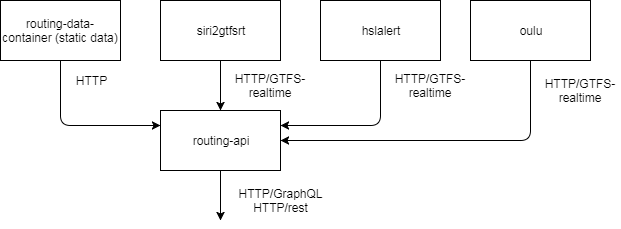
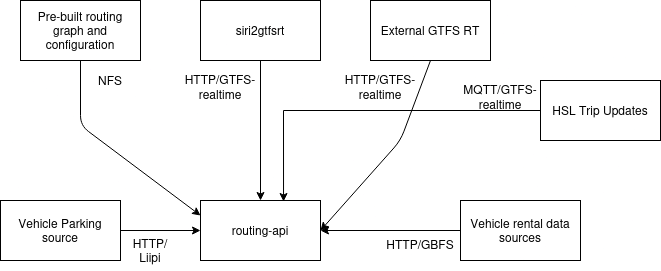
Update routing-api diagram and link to data building page from routing-api architecture

diff --git a/src/pages/en/developers/architecture/x-apis/1-routing-api/index.md b/src/pages/en/developers/architecture/x-apis/1-routing-api/index.md
@@ -26,6 +26,8 @@ Routing API is implemented using OpenTripPlanner.
 
 > https://www.opentripplanner.org/
 
+Details on how static data is included in our OpenTripPlanner instances can be found [here](../../../services/6-data-containers/routing-data/).
+
 ## Static and realtime information
 
 OpenTripPlanner APIs provide access to static and realtime routing and transit information.
